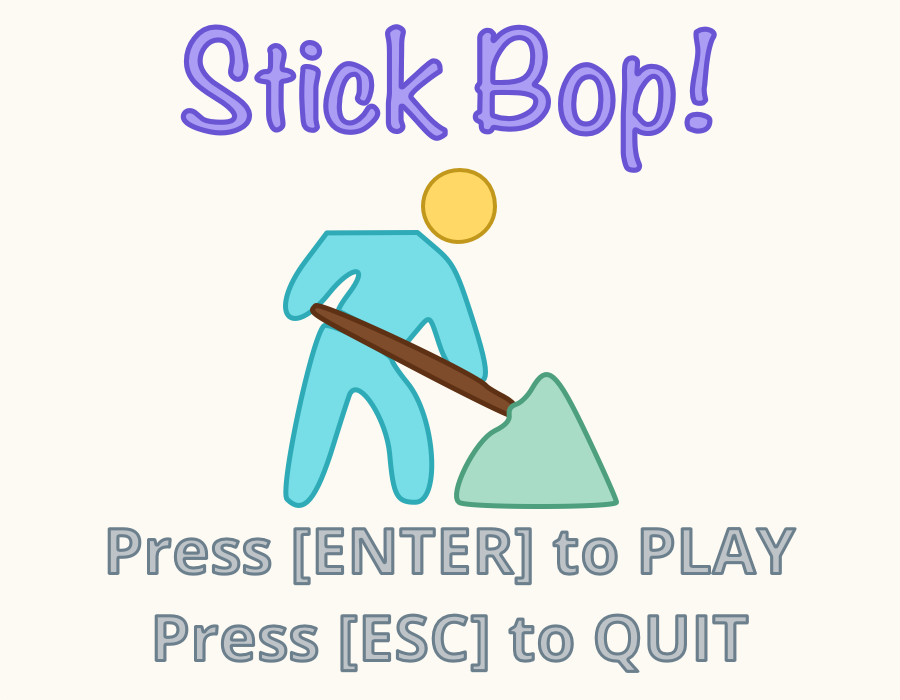
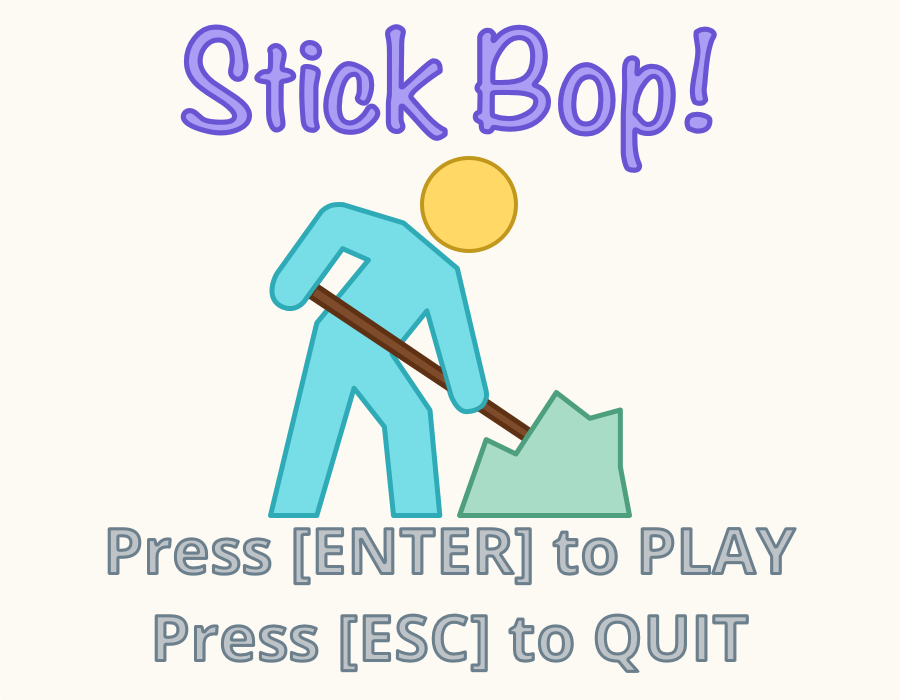
added game_ready() and new ready,set,go images

Changed region(s): [[0.28, 0.21, 0.7156, 0.75], [0.3733, 0.54, 0.4356, 0.63]]

diff --git a/stick-bop.py b/stick-bop.py
@@ -61,7 +61,32 @@ def game_menu():
         else:
             pygame.display.update()
 
-    print('GAME READY TO START')
+def game_ready():
+    pygame.mixer.music.stop()
+
+    ready_snd = pygame.mixer.Sound(path.join(SND_DIR, 'ready-set-go.ogg'))
+    ready_snd.play()
+
+    size = SCREEN_WIDTH, SCREEN_HEIGHT
+    screen = pygame.display.set_mode(size)
+
+    ready_img = pygame.image.load(path.join(IMG_DIR, 'ready.png')).convert()
+    ready_img = pygame.transform.scale(ready_img, (SCREEN_WIDTH, SCREEN_HEIGHT), screen)
+    screen.blit(ready_img, [0, 0])
+    pygame.display.update()
+    pygame.time.wait(1000)
+
+    set_img = pygame.image.load(path.join(IMG_DIR, 'set.png')).convert()
+    set_img = pygame.transform.scale(set_img, (SCREEN_WIDTH, SCREEN_HEIGHT), screen)
+    screen.blit(set_img, [0, 0])
+    pygame.display.update()
+    pygame.time.wait(1000)
+
+    go_img = pygame.image.load(path.join(IMG_DIR, 'go.png')).convert()
+    go_img = pygame.transform.scale(go_img, (SCREEN_WIDTH, SCREEN_HEIGHT), screen)
+    screen.blit(go_img, [0, 0])
+    pygame.display.update()
+    pygame.time.wait(1000)
 
 def draw_text(surface, text, size, x, y):
     game_font = pygame.font.Font(path.join(FONT_DIR, 'OpenSans-Regular.ttf'), size)
@@ -79,10 +104,6 @@ def main():
     clock = pygame.time.Clock()
     pygame.display.set_caption('Stick Bop!')
 
-    # load assets
-    image1 = pygame.image.load(path.join(IMG_DIR, 'stick-pic.png')).convert()
-    image2 = pygame.image.load(path.join(IMG_DIR, 'stick-pic-sword.png')).convert()
-
     # MAIN GAME LOOP
     #----------------------------------------------------------------
     running = True
@@ -92,26 +113,7 @@ def main():
     while running:
         if menu_display:
             game_menu()
-            pygame.mixer.music.stop()
-
-            ready_snd = pygame.mixer.Sound(path.join(SND_DIR, 'ready-set-go.ogg'))
-            ready_snd.play()
-
-            screen.fill(WHITE)
-            draw_text(screen, 'READY', 100, SCREEN_WIDTH / 2, SCREEN_HEIGHT / 2.5)
-            pygame.display.update()
-            pygame.time.wait(1000)
-
-            screen.fill(WHITE)
-            draw_text(screen, 'SET', 100, SCREEN_WIDTH / 2, SCREEN_HEIGHT / 2.5)
-            pygame.display.update()
-            pygame.time.wait(1000)
-
-            screen.fill(WHITE)
-            draw_text(screen, 'GO!', 100, SCREEN_WIDTH / 2, SCREEN_HEIGHT / 2.5)
-            pygame.display.update()
-            pygame.time.wait(1000)
-
+            game_ready()
             menu_display = False
 
         screen.fill(WHITE)
